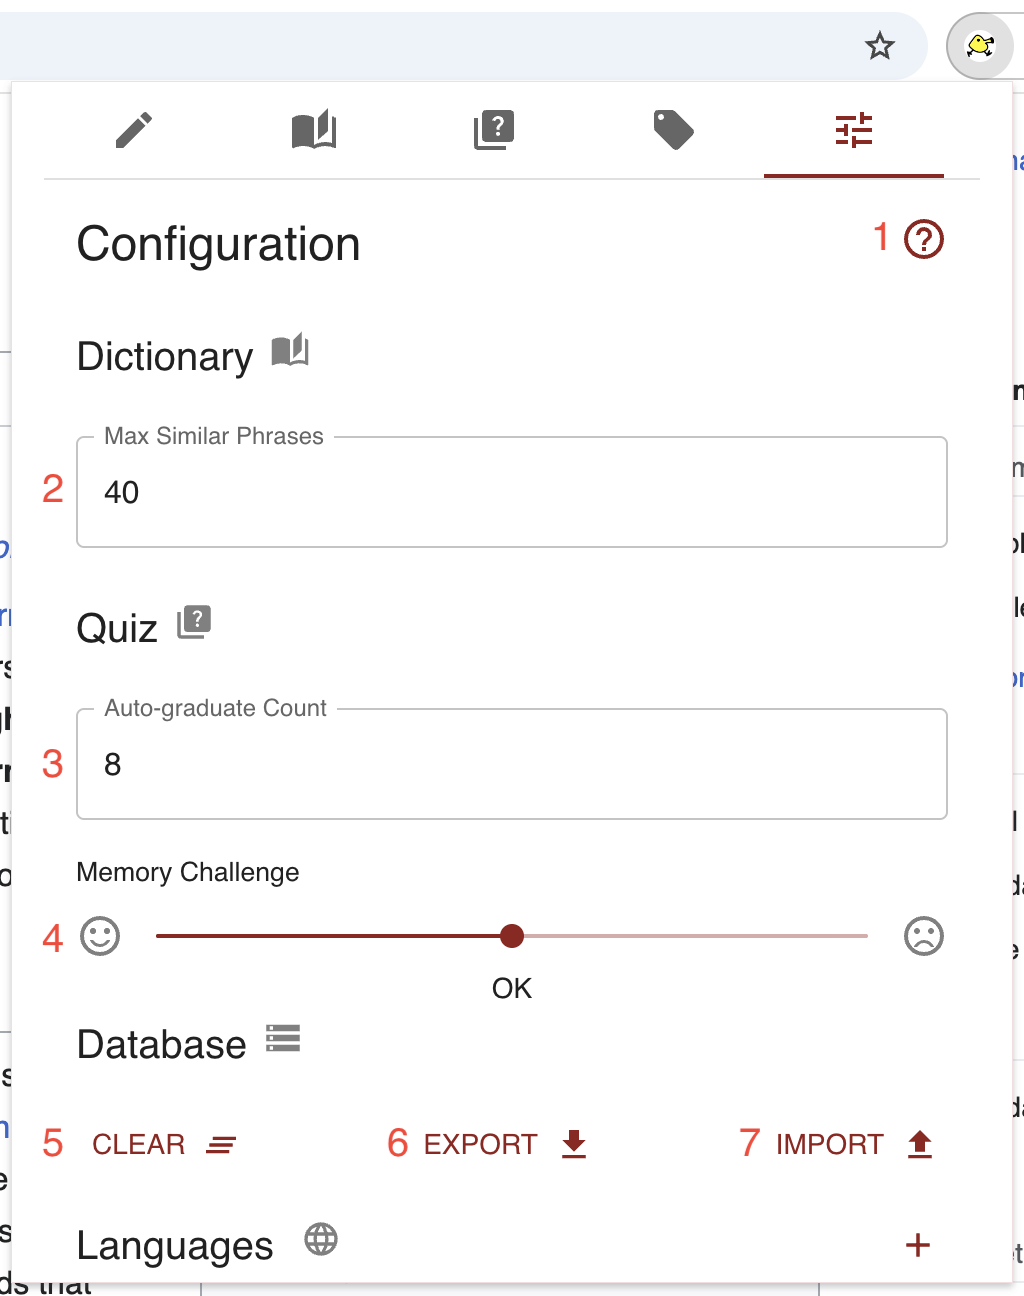
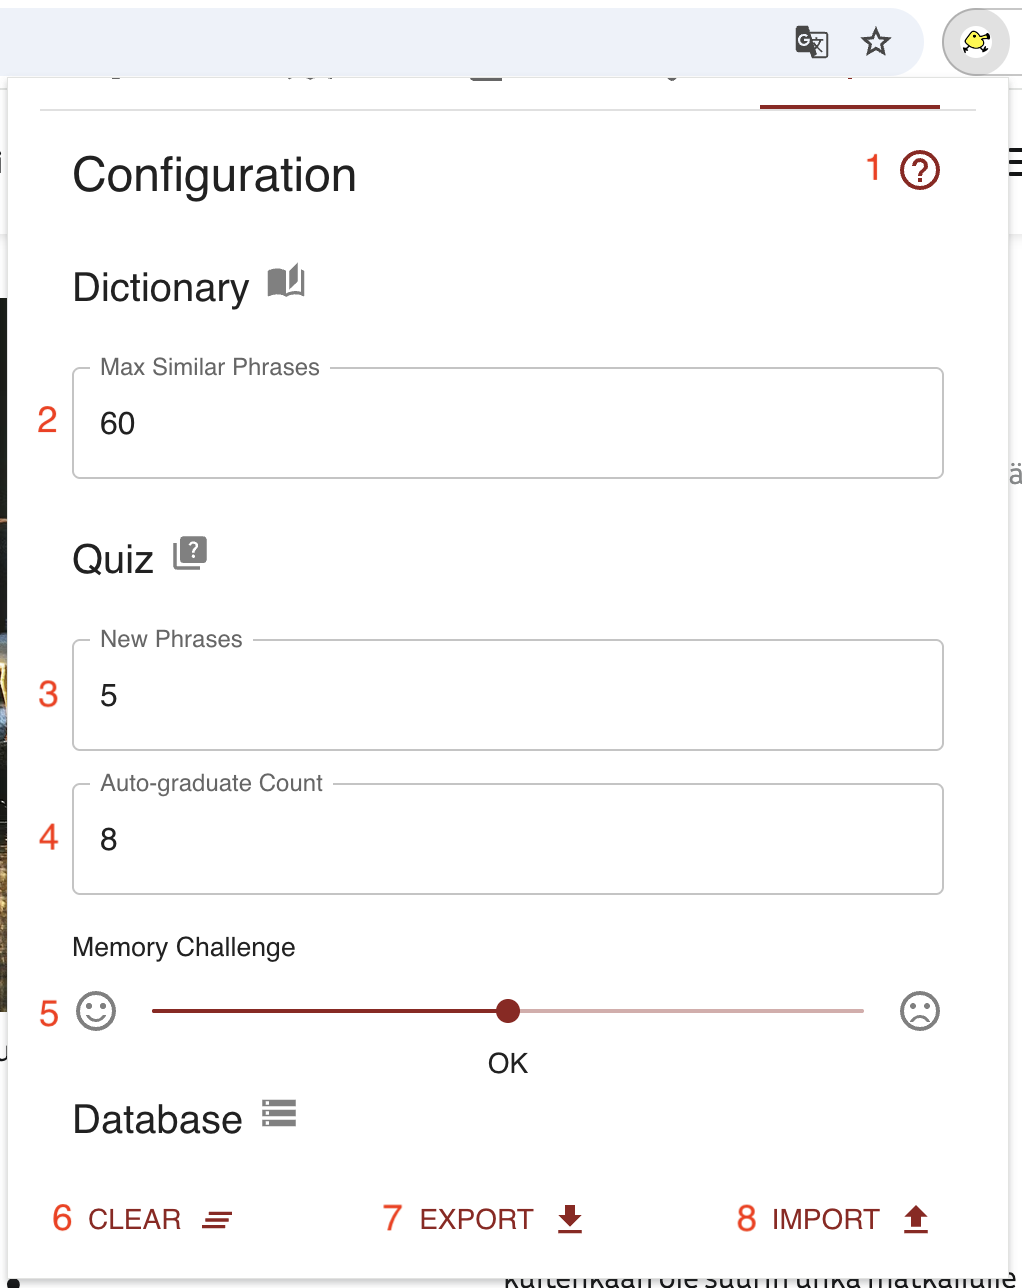
adjust documentation to cover new features

diff --git a/docs/index.html b/docs/index.html
@@ -1325,8 +1325,8 @@
         <img src="images/configuration.png" alt="the configuration tab" />
         <figcaption>
           The configuration tab: 1) link to this documentation; 2) maximum
-          similar phrase count; 3) auto-graduate count 4) quiz memory
-          challeng; 5) clear database button; 6) export database button; 7)
+          similar phrase count; 3) new phrases per quiz; 4) auto-graduate count; 5) quiz memory
+          challenge; 6) clear database button; 7) export database button; 8)
           import database button
         </figcaption>
       </figure>
@@ -1334,7 +1334,14 @@
         <img src="images/languages.png" alt="the languages subsection of the configuration tab" />
         <figcaption>
           The languages subsection of the configuration tab: 1) language
-          adder; 2)&nbsp;the unknown language; 3) locale tally
+          adder; 2)&nbsp;the unknown language; 3) locale tally; 4) equivalent characters editor
+        </figcaption>
+      </figure>
+      <figure id="equivalence-classes-figure">
+        <img src="images/equivalence_classes.png" alt="the equivalent characters editor" />
+        <figcaption>
+          The equivalent characters editor. Use this to teach Amanuensis what orthographic differences should be treated
+          as equivalent when comparing words.
         </figcaption>
       </figure>
       <p>
@@ -1354,6 +1361,13 @@
       </p>
       <h4 id="quiz-configuration">Quiz</h4>
       Configuration parameters for the <a href="#quiz">quiz</a> tab.
+      <h5 id="new-phrases">new phrases</h5>
+      <p>
+        When you start a day's quizzes, Amanuensis will draw some number of
+        new phrases for you to learn, in addition to any phrases left over
+        from previous days. This parameter controls how many new phrases are
+        drawn.
+      </p>
       <h5 id="auto-graduate-threshold">auto-graduate threshold</h5>
       <p>
         If you always get the answer to a challenge, you probably should stop
@@ -1462,8 +1476,31 @@
         record this discrepancy and use it to improve its language assignment
         for subsequent notes. In (3) in
         <a href="#language-figure">the figure</a> you can see an instance of
-        this: 4 notes on Finnish were guessed by Chrome to contain Estonian
+        this: 5 notes on Finnish were guessed by the browser to contain Estonian
         (et); one was guessed to containg Swedish (sv).
+      </p>
+      <h5 id="equivalence-classes">character equivalence classes</h5>
+      <p>
+        Languages often have equivalent ways of spelling a given sound. In English, for example, <i>cafe</i> may also be
+        spelled <i>café</i>; <i>coordinate</i> may be spelled <i>coördinate</i>. This can be problematic if you are
+        looking to see whether you already have a note for one of these variable forms.
+      </p>
+      <p>
+        The equivalence class editor, <a href="#equivalence-classes-figure">the figure</a>, provides a means of
+        specifying equivalent character sequences. It is activated by clicking the
+        language's edit icon, (4) in <a href="#language-figure">the figure</a>. If you have already specified equivalent
+        characters for a given language, the editor icon will be decorated with the dot that you see in the figure.
+      </p>
+      <p>
+        The character sequences in the left field are treated as equivalent to the sequence in the right. You can mark
+        multi-character sequences as equivalent this way -- <i>tsch</i> and <i>ch</i>, say. If equivalence class
+        contains more than two members -- <i>é</i>, <i>è</i>, <i>ê</i>, <i>e</i>, for example -- simply separate
+        instances in the left field with commas.
+      </p>
+      <p>
+        For obvious reasons you cannot mark commas or whitespace as equivalent to anything. Also, capitalization is
+        already treated as irrelevant for purposes of comparison, so don't worry about marking <i>A</i> as equivalent to
+        <i>a</i>. It would be harmless but pointless.
       </p>
       <h2>Acknowledgements</h2>
       <p>
